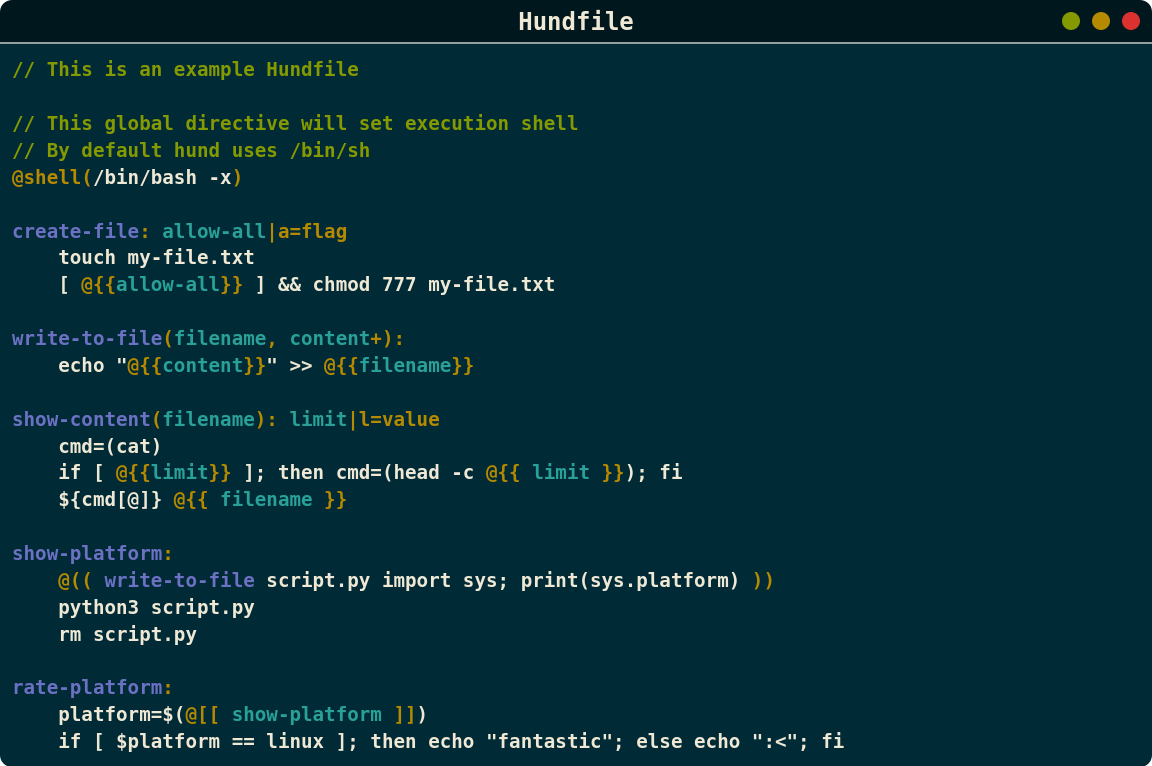
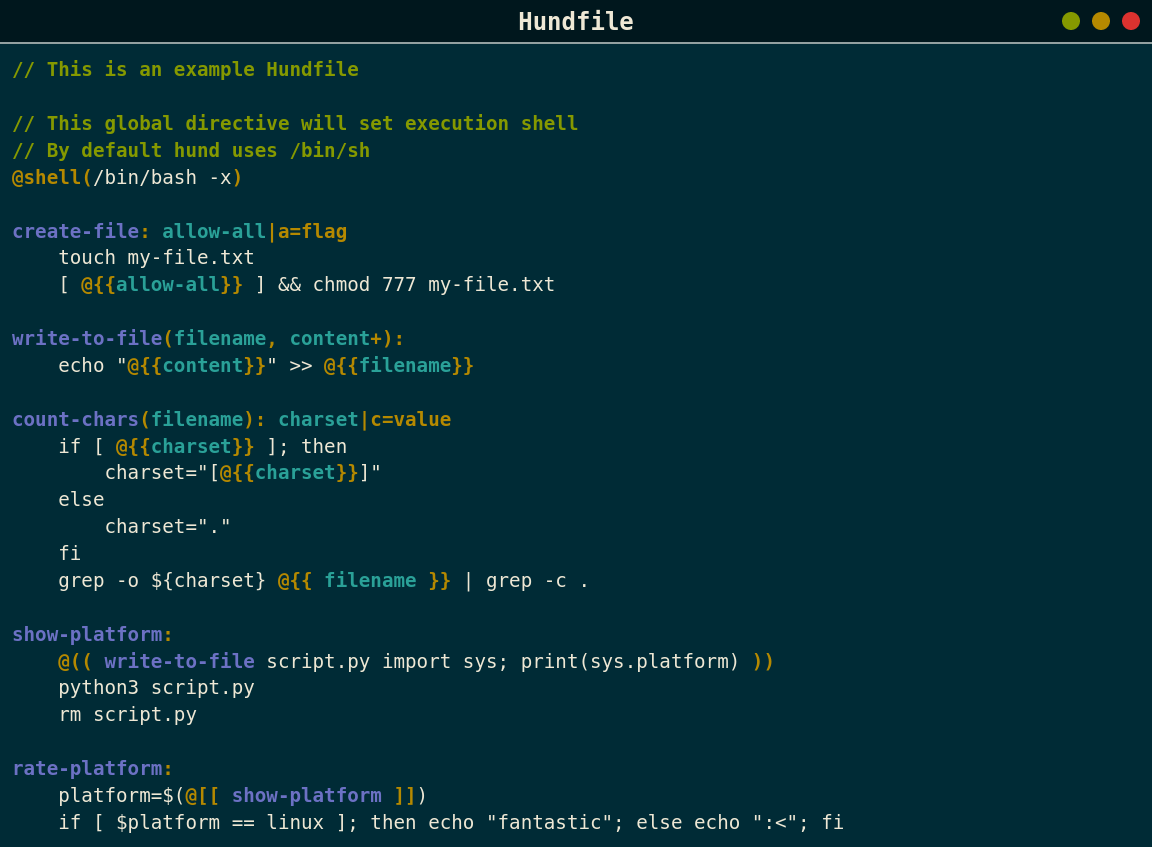
readme update

Changed region(s): [[0.0, 0.2702, 0.75, 0.9909], [0.0, 0.0, 1.0, 0.2402]]

diff --git a/README.md b/README.md
@@ -21,10 +21,13 @@ create-file: allow-all|a=flag
 write-to-file(filename, content+):
     echo "@{{content}}" >> @{{filename}}
 
-show-content(filename): limit|l=value
-    cmd=(cat)
-    if [ @{{limit}} ]; then cmd=(head -c @{{ limit }}); fi
-    ${cmd[@]} @{{ filename }}
+count-chars(filename): charset|c=value
+    if [ @{{ charset }} ]; then
+        charset="[@{{ charset }}]"
+    else
+        charset="."
+    fi
+    grep -o ${charset} @{{filename}} | grep -c .
 
 show-platform:
     @(( write-to-file script.py import sys; print(sys.platform) ))
@@ -56,7 +59,7 @@ hund write-to-file some-file.txt
 cat some-file.txt
 ```
 ```
-hund show-content -l 5 some-file.txt
+hund count-chars -c aoeiuy some-file.txt
 ```
 ```
 hund show-platform
